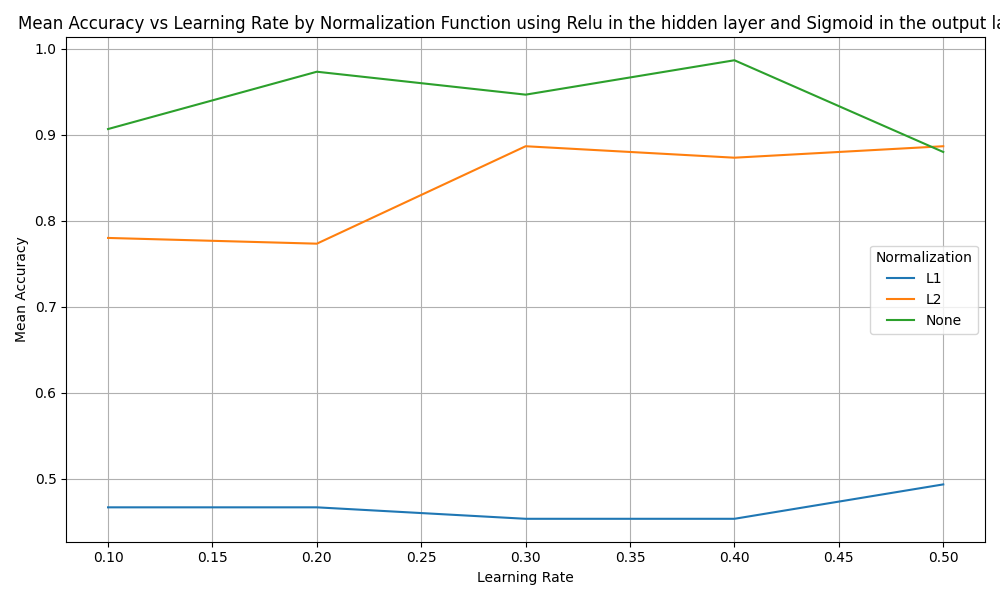
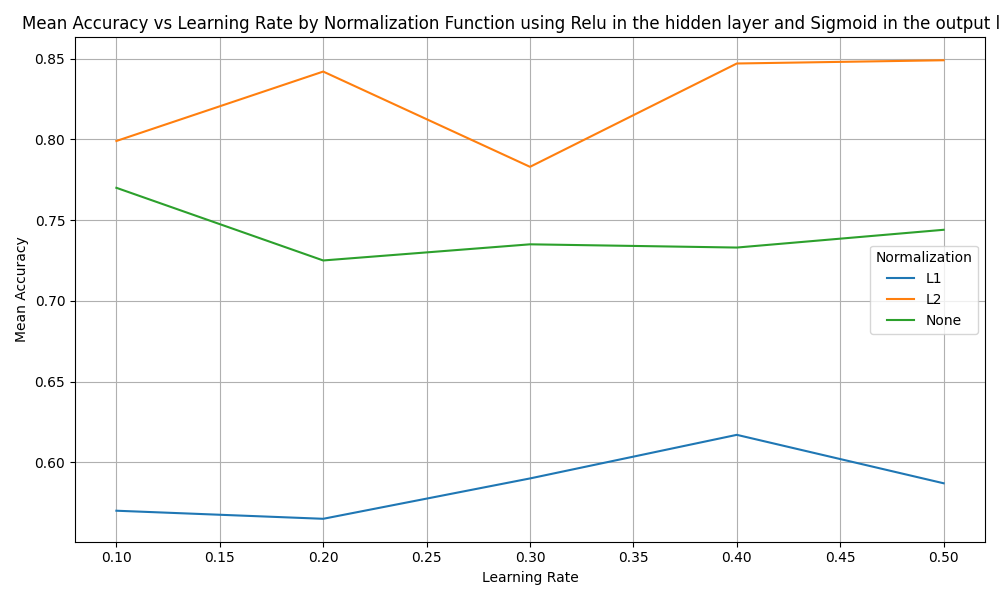
Final L5 z AI. KONIEC SEMESTRU

diff --git a/AppleIntelligence/L5/Main.cpp b/AppleIntelligence/L5/Main.cpp
@@ -35,6 +35,7 @@ vector<pair<double,double>> L1(vector<pair<double,double>> x){
     double sum1=0.0;
     double sum2=0.0;
     vector<pair<double,double>> result;
+    result.clear();
     for(pair<double,double> el : x){
         sum1+=el.first;
         sum2+=el.second;
@@ -179,7 +180,9 @@ int main(){
 
     while(learning_rate<=0.5){
 
-        for(int repetition=0;repetition<15;repetition++){
+        for(int repetition=0;repetition<85;repetition++){
+            dane.clear();
+            labels.clear();
             for(int i=0;i<ilosc_testow;i++){
                 dane.push_back(make_pair(dis(mt),dis(mt)));
                 if(get<0>(dane[i])*get<1>(dane[i])>=0)labels.push_back(true);
@@ -215,7 +218,8 @@ int main(){
                 double input[2]={dane[i].first,dane[i].second};
                 vector<double> hidden_out = hidden.forward(input);
                 double y_pred = output.forward(hidden_out);
-                cout<<"Pred: "<<y_pred<<" Label: "<<labels[i]<<endl;
+                //cout<<dane[i].first<<" : "<<dane[i].second<<endl;
+                //cout<<"Pred: "<<y_pred<<" Label: "<<labels[i]<<endl;
                 if((y_pred>=0.5&&labels[i]==1)||(y_pred<0.5&&labels[i]==0))correct++;
             }
             double accuracy=(double)correct/(double)(ilosc_testow/10);

diff --git a/AppleIntelligence/L5/ReadMe.md b/AppleIntelligence/L5/ReadMe.md
@@ -1,0 +1,78 @@
+1. Opis problemu
+
+Celem zadania było zaimplementowanie sieci neuronowej rozwiązującej problem:
+Dla dwóch liczb rzeczywistych x1,x2∈[−1,1], różnych od zera, funkcja ma zwrócić:
+
+    1, jeśli x1 i x2 mają ten sam znak (czyli x1⋅x2≥0),
+
+    0 w przeciwnym przypadku.
+
+2. Architektura sieci
+
+Zaimplementowano dwuwarstwową sieć neuronową:
+
+    Warstwa ukryta: 4 neurony z funkcją aktywacji: ReLU lub sigmoid (W testach użyto relu),
+
+    Warstwa wyjściowa: 1 neuron z funkcją aktywacji: sigmoid (dla klasyfikacji binarnej),
+
+    Algorytm: klasyczny backpropagation (propagacja wsteczna) z aktualizacją wag przy każdej próbce.
+
+3. Przygotowanie danych
+
+Dane generowane były losowo: 100 par liczb (x1,x2)∈[−1,1]. Odpowiedź miała być oznaczona jako 1 lub 0 na podstawie znaku iloczynu.
+
+Przetestowano 3 warianty danych wejściowych:
+
+    Bez normalizacji (brak przekształceń),
+
+    Z normalizacją L1 – dzielenie przez sumę wartości wejściowych,
+
+    Z normalizacją L2 – dzielenie przez długość wektora (normę euklidesową).
+
+4. Eksperymenty
+
+Dla każdej kombinacji:
+
+    Normalizacji (None, L1, L2),
+
+    Współczynnika uczenia learning_rate w zakresie od 0.1 do 0.5 (co 0.1),
+
+sieć trenowano przez 5000 epok na 100 przykładach, a następnie testowano na 10% danych.
+Każdy wariant powtórzono 15 razy, a wyniki zapisano do pliku results.csv.
+5. Wyniki i analiza
+
+Wyniki zapisano w formacie CSV, a następnie wykorzystano skrypt Pythona do wizualizacji zależności między średnią skutecznością (accuracy) a współczynnikiem uczenia, dla każdej metody normalizacji.
+Wnioski:
+
+    
+
+    Wpływ normalizacji:
+
+        L2 dawała najlepsze rezultaty.
+
+        L1 była kiepska, czę.
+
+        Brak normalizacji skutkował większą zmiennością wyników i wolniejszym uczeniem.
+
+    Wpływ współczynnika uczenia:
+
+        Przy funkcji normalizacji L2, która wydawała się najlepsza w obsłudze danych widać stosunkowo stabilny wzrost skuteczności sieci wraz z współczynnikiem uczenia.
+
+        Dla danych nieznormalizowanych wnioski są podobne, ale z o wiele bardziej niestabilne. Dla współczynnika uczenia 0,5 sieć wyglądała trochę na przeuczoną.
+
+    Dokładność klasyfikacji:
+
+        Przy optymalnych parametrach sieć osiągała skuteczność powyżej 90%.
+
+6. Wnioski końcowe
+
+Za pomocą prostej, dwuwarstwowej sieci neuronowej z 4 neuronami ukrytymi i jedną jednostką wyjściową można skutecznie nauczyć się klasyfikować znaki dwóch liczb.
+Najlepsze wyniki uzyskano stosując:
+
+    ReLU w warstwie ukrytej,
+
+    Normalizację L2 danych wejściowych,
+
+    Współczynnik uczenia w zakresie 0.3–0.4.
+
+Implementacja została zrealizowana w języku C++, a do analizy wyników i tworzenia wykresów wykorzystano skrypt w języku Python.
